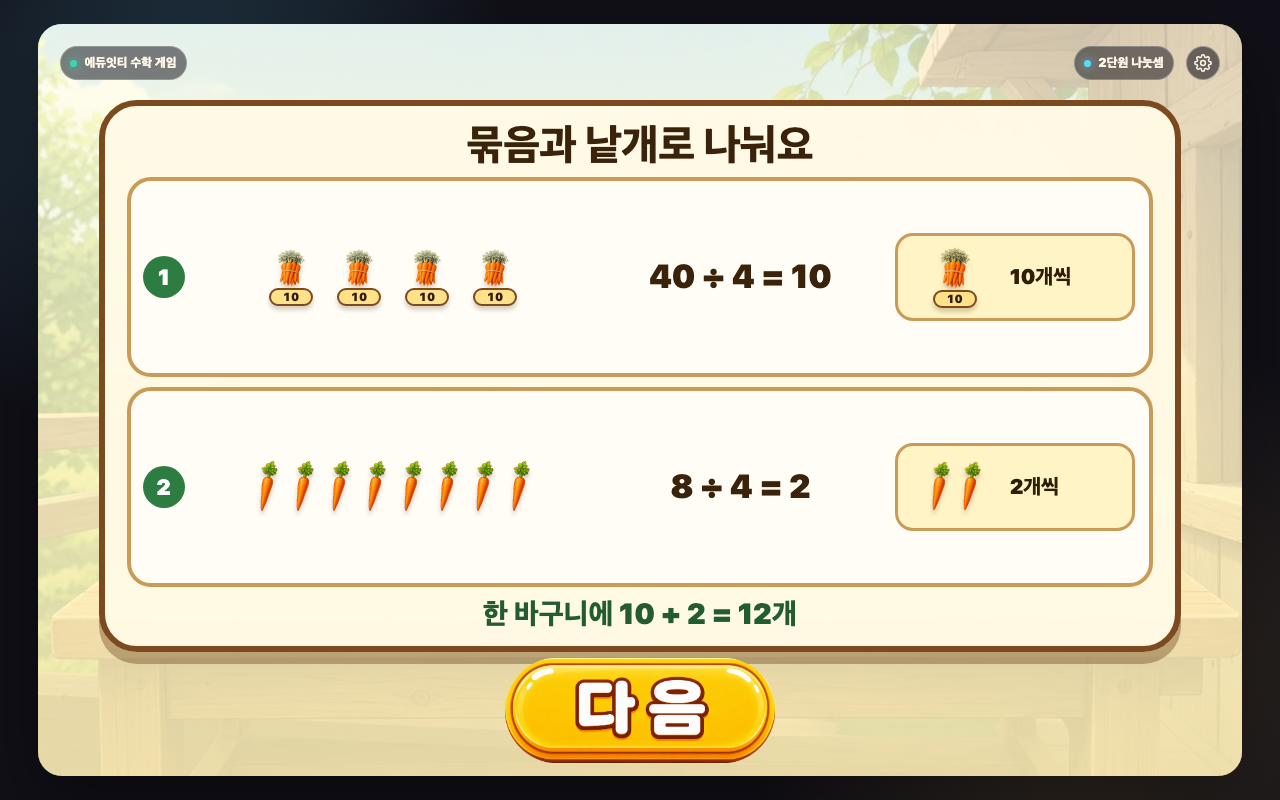
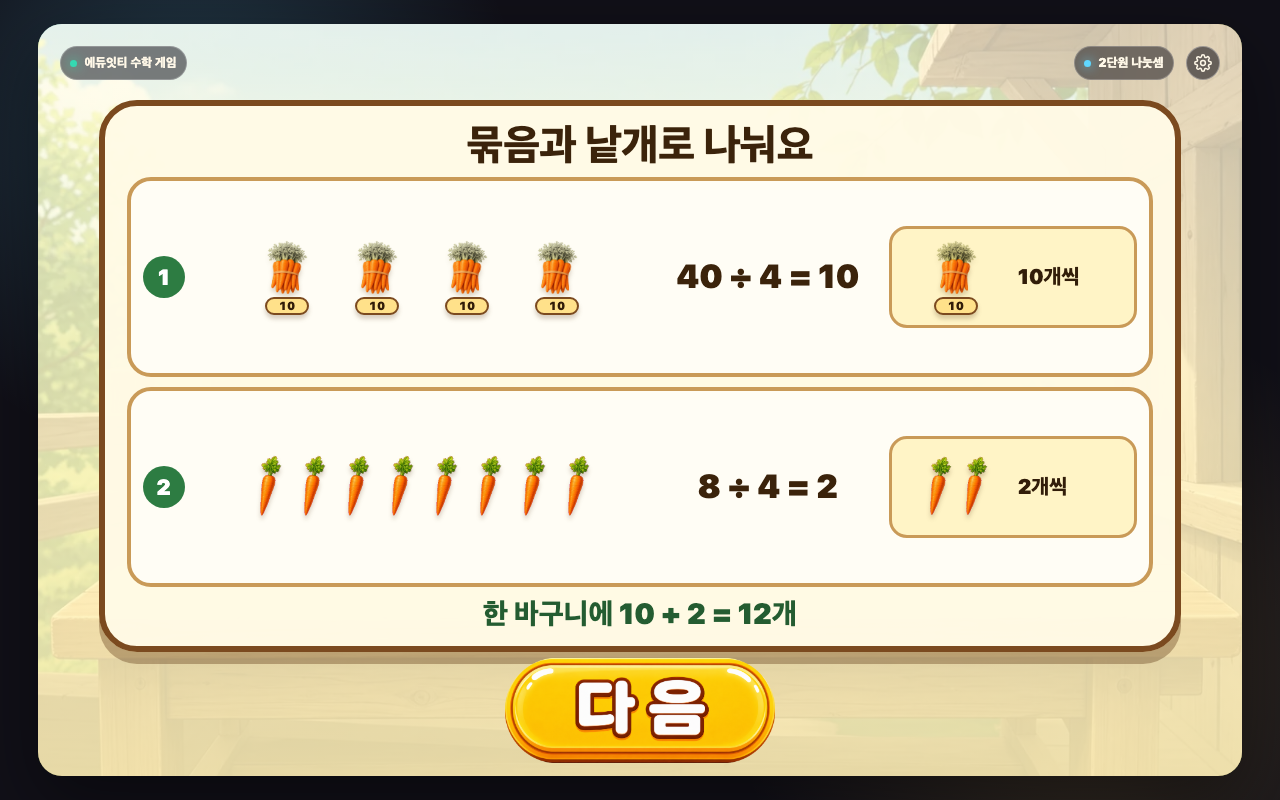
fix(mathmon): enlarge division tutorial carrots

diff --git a/3-2-2-1-mathmon-divide-farm/index.html b/3-2-2-1-mathmon-divide-farm/index.html
@@ -3589,24 +3589,24 @@
     .game[data-workbench-type="place-value-farm"] .farm-tutorial-guide h3 { font-size: 2.65rem; }
     .game[data-workbench-type="place-value-farm"] .farm-tutorial-step {
       padding: 8px 12px;
-      grid-template-columns: 42px minmax(270px, 1.2fr) minmax(220px, .85fr) minmax(190px, .75fr);
+      grid-template-columns: 42px minmax(360px, 1.45fr) minmax(180px, .7fr) minmax(210px, .8fr);
       gap: 12px;
     }
-    .game[data-workbench-type="place-value-farm"] .farm-tutorial-source-pieces { gap: 0; }
-    .game[data-workbench-type="place-value-farm"] .farm-tutorial-source-pieces .farm-produce-piece--bundle { width: 68px; height: 58px; }
-    .game[data-workbench-type="place-value-farm"] .farm-tutorial-source-pieces .farm-produce-piece--single { width: 36px; height: 62px; margin: 0; }
+    .game[data-workbench-type="place-value-farm"] .farm-tutorial-source-pieces { gap: 4px; }
+    .game[data-workbench-type="place-value-farm"] .farm-tutorial-source-pieces .farm-produce-piece--bundle { width: 86px; height: 76px; }
+    .game[data-workbench-type="place-value-farm"] .farm-tutorial-source-pieces .farm-produce-piece--single { width: 40px; height: 74px; margin: 0; }
     .game[data-workbench-type="place-value-farm"] .farm-tutorial-expression strong { font-size: 2.05rem; }
     .game[data-workbench-type="place-value-farm"] .farm-tutorial-expression span { font-size: 1.15rem; white-space: nowrap; }
     .game[data-workbench-type="place-value-farm"] .farm-tutorial-result-proof {
-      width: min(100%, 240px);
-      min-height: 88px;
+      width: min(100%, 260px);
+      min-height: 102px;
       padding: 8px 12px;
-      grid-template-columns: 90px minmax(0, 1fr);
+      grid-template-columns: 104px minmax(0, 1fr);
       gap: 10px;
     }
-    .game[data-workbench-type="place-value-farm"] .farm-tutorial-proof-pieces { height: 64px; }
-    .game[data-workbench-type="place-value-farm"] .farm-tutorial-proof-pieces .farm-produce-piece--bundle { width: 80px; height: 62px; }
-    .game[data-workbench-type="place-value-farm"] .farm-tutorial-proof-pieces .farm-produce-piece--single { width: 29px; height: 60px; }
+    .game[data-workbench-type="place-value-farm"] .farm-tutorial-proof-pieces { height: 78px; }
+    .game[data-workbench-type="place-value-farm"] .farm-tutorial-proof-pieces .farm-produce-piece--bundle { width: 96px; height: 76px; }
+    .game[data-workbench-type="place-value-farm"] .farm-tutorial-proof-pieces .farm-produce-piece--single { width: 34px; height: 72px; }
     .game[data-workbench-type="place-value-farm"] .farm-tutorial-result-proof > strong { font-size: 1.3rem; line-height: 1.1; white-space: nowrap; }
 
     @media (max-width: 1100px) {
@@ -3614,24 +3614,48 @@
       .game[data-workbench-type="place-value-farm"] .farm-tutorial-guide h3 { font-size: 2.15rem; }
       .game[data-workbench-type="place-value-farm"] .farm-tutorial-step {
         padding: 7px 10px;
-        grid-template-columns: 38px minmax(240px, 1.1fr) minmax(190px, .85fr) minmax(190px, .8fr);
+        grid-template-columns: 38px minmax(320px, 1.35fr) minmax(155px, .65fr) minmax(205px, .85fr);
         gap: 8px;
       }
-      .game[data-workbench-type="place-value-farm"] .farm-tutorial-source-pieces .farm-produce-piece--bundle { width: 54px; height: 47px; }
-      .game[data-workbench-type="place-value-farm"] .farm-tutorial-source-pieces .farm-produce-piece--single { width: 29px; height: 50px; }
+      .game[data-workbench-type="place-value-farm"] .farm-tutorial-source-pieces { gap: 3px; }
+      .game[data-workbench-type="place-value-farm"] .farm-tutorial-source-pieces .farm-produce-piece--bundle { width: 78px; height: 70px; }
+      .game[data-workbench-type="place-value-farm"] .farm-tutorial-source-pieces .farm-produce-piece--single { width: 38px; height: 70px; }
       .game[data-workbench-type="place-value-farm"] .farm-tutorial-expression strong { font-size: 1.55rem; }
       .game[data-workbench-type="place-value-farm"] .farm-tutorial-expression span { font-size: .95rem; }
       .game[data-workbench-type="place-value-farm"] .farm-tutorial-result-proof {
-        width: min(100%, 210px);
-        min-height: 74px;
+        width: min(100%, 240px);
+        min-height: 92px;
         padding: 6px 8px;
-        grid-template-columns: 72px minmax(0, 1fr);
+        grid-template-columns: 96px minmax(0, 1fr);
         gap: 6px;
       }
-      .game[data-workbench-type="place-value-farm"] .farm-tutorial-proof-pieces { height: 52px; }
-      .game[data-workbench-type="place-value-farm"] .farm-tutorial-proof-pieces .farm-produce-piece--bundle { width: 62px; height: 49px; }
-      .game[data-workbench-type="place-value-farm"] .farm-tutorial-proof-pieces .farm-produce-piece--single { width: 23px; height: 47px; }
+      .game[data-workbench-type="place-value-farm"] .farm-tutorial-proof-pieces { height: 70px; }
+      .game[data-workbench-type="place-value-farm"] .farm-tutorial-proof-pieces .farm-produce-piece--bundle { width: 86px; height: 68px; }
+      .game[data-workbench-type="place-value-farm"] .farm-tutorial-proof-pieces .farm-produce-piece--single { width: 31px; height: 66px; }
       .game[data-workbench-type="place-value-farm"] .farm-tutorial-result-proof > strong { font-size: 1.05rem; }
+    }
+
+    @media (max-width: 930px) {
+      .game[data-workbench-type="place-value-farm"] .farm-tutorial-step {
+        grid-template-columns: 34px minmax(270px, 1.2fr) minmax(140px, .62fr) minmax(185px, .82fr);
+        gap: 7px;
+      }
+      .game[data-workbench-type="place-value-farm"] .farm-tutorial-source-pieces .farm-produce-piece--bundle {
+        width: 66px;
+        height: 60px;
+      }
+      .game[data-workbench-type="place-value-farm"] .farm-tutorial-source-pieces .farm-produce-piece--single {
+        width: 31px;
+        height: 60px;
+      }
+      .game[data-workbench-type="place-value-farm"] .farm-tutorial-result-proof {
+        width: min(100%, 205px);
+        min-height: 82px;
+        grid-template-columns: 82px minmax(0, 1fr);
+      }
+      .game[data-workbench-type="place-value-farm"] .farm-tutorial-proof-pieces { height: 62px; }
+      .game[data-workbench-type="place-value-farm"] .farm-tutorial-proof-pieces .farm-produce-piece--bundle { width: 76px; height: 60px; }
+      .game[data-workbench-type="place-value-farm"] .farm-tutorial-proof-pieces .farm-produce-piece--single { width: 28px; height: 58px; }
     }
 
     .game[data-workbench-type="place-value-farm"] .farm-share-confirmation.has-action-button {

diff --git a/_lessons/3-2-2-1-mathmon-divide-farm/lesson.css b/_lessons/3-2-2-1-mathmon-divide-farm/lesson.css
@@ -2664,24 +2664,24 @@
 .game[data-workbench-type="place-value-farm"] .farm-tutorial-guide h3 { font-size: 2.65rem; }
 .game[data-workbench-type="place-value-farm"] .farm-tutorial-step {
   padding: 8px 12px;
-  grid-template-columns: 42px minmax(270px, 1.2fr) minmax(220px, .85fr) minmax(190px, .75fr);
+  grid-template-columns: 42px minmax(360px, 1.45fr) minmax(180px, .7fr) minmax(210px, .8fr);
   gap: 12px;
 }
-.game[data-workbench-type="place-value-farm"] .farm-tutorial-source-pieces { gap: 0; }
-.game[data-workbench-type="place-value-farm"] .farm-tutorial-source-pieces .farm-produce-piece--bundle { width: 68px; height: 58px; }
-.game[data-workbench-type="place-value-farm"] .farm-tutorial-source-pieces .farm-produce-piece--single { width: 36px; height: 62px; margin: 0; }
+.game[data-workbench-type="place-value-farm"] .farm-tutorial-source-pieces { gap: 4px; }
+.game[data-workbench-type="place-value-farm"] .farm-tutorial-source-pieces .farm-produce-piece--bundle { width: 86px; height: 76px; }
+.game[data-workbench-type="place-value-farm"] .farm-tutorial-source-pieces .farm-produce-piece--single { width: 40px; height: 74px; margin: 0; }
 .game[data-workbench-type="place-value-farm"] .farm-tutorial-expression strong { font-size: 2.05rem; }
 .game[data-workbench-type="place-value-farm"] .farm-tutorial-expression span { font-size: 1.15rem; white-space: nowrap; }
 .game[data-workbench-type="place-value-farm"] .farm-tutorial-result-proof {
-  width: min(100%, 240px);
-  min-height: 88px;
+  width: min(100%, 260px);
+  min-height: 102px;
   padding: 8px 12px;
-  grid-template-columns: 90px minmax(0, 1fr);
+  grid-template-columns: 104px minmax(0, 1fr);
   gap: 10px;
 }
-.game[data-workbench-type="place-value-farm"] .farm-tutorial-proof-pieces { height: 64px; }
-.game[data-workbench-type="place-value-farm"] .farm-tutorial-proof-pieces .farm-produce-piece--bundle { width: 80px; height: 62px; }
-.game[data-workbench-type="place-value-farm"] .farm-tutorial-proof-pieces .farm-produce-piece--single { width: 29px; height: 60px; }
+.game[data-workbench-type="place-value-farm"] .farm-tutorial-proof-pieces { height: 78px; }
+.game[data-workbench-type="place-value-farm"] .farm-tutorial-proof-pieces .farm-produce-piece--bundle { width: 96px; height: 76px; }
+.game[data-workbench-type="place-value-farm"] .farm-tutorial-proof-pieces .farm-produce-piece--single { width: 34px; height: 72px; }
 .game[data-workbench-type="place-value-farm"] .farm-tutorial-result-proof > strong { font-size: 1.3rem; line-height: 1.1; white-space: nowrap; }
 
 @media (max-width: 1100px) {
@@ -2689,24 +2689,48 @@
   .game[data-workbench-type="place-value-farm"] .farm-tutorial-guide h3 { font-size: 2.15rem; }
   .game[data-workbench-type="place-value-farm"] .farm-tutorial-step {
     padding: 7px 10px;
-    grid-template-columns: 38px minmax(240px, 1.1fr) minmax(190px, .85fr) minmax(190px, .8fr);
+    grid-template-columns: 38px minmax(320px, 1.35fr) minmax(155px, .65fr) minmax(205px, .85fr);
     gap: 8px;
   }
-  .game[data-workbench-type="place-value-farm"] .farm-tutorial-source-pieces .farm-produce-piece--bundle { width: 54px; height: 47px; }
-  .game[data-workbench-type="place-value-farm"] .farm-tutorial-source-pieces .farm-produce-piece--single { width: 29px; height: 50px; }
+  .game[data-workbench-type="place-value-farm"] .farm-tutorial-source-pieces { gap: 3px; }
+  .game[data-workbench-type="place-value-farm"] .farm-tutorial-source-pieces .farm-produce-piece--bundle { width: 78px; height: 70px; }
+  .game[data-workbench-type="place-value-farm"] .farm-tutorial-source-pieces .farm-produce-piece--single { width: 38px; height: 70px; }
   .game[data-workbench-type="place-value-farm"] .farm-tutorial-expression strong { font-size: 1.55rem; }
   .game[data-workbench-type="place-value-farm"] .farm-tutorial-expression span { font-size: .95rem; }
   .game[data-workbench-type="place-value-farm"] .farm-tutorial-result-proof {
-    width: min(100%, 210px);
-    min-height: 74px;
+    width: min(100%, 240px);
+    min-height: 92px;
     padding: 6px 8px;
-    grid-template-columns: 72px minmax(0, 1fr);
+    grid-template-columns: 96px minmax(0, 1fr);
     gap: 6px;
   }
-  .game[data-workbench-type="place-value-farm"] .farm-tutorial-proof-pieces { height: 52px; }
-  .game[data-workbench-type="place-value-farm"] .farm-tutorial-proof-pieces .farm-produce-piece--bundle { width: 62px; height: 49px; }
-  .game[data-workbench-type="place-value-farm"] .farm-tutorial-proof-pieces .farm-produce-piece--single { width: 23px; height: 47px; }
+  .game[data-workbench-type="place-value-farm"] .farm-tutorial-proof-pieces { height: 70px; }
+  .game[data-workbench-type="place-value-farm"] .farm-tutorial-proof-pieces .farm-produce-piece--bundle { width: 86px; height: 68px; }
+  .game[data-workbench-type="place-value-farm"] .farm-tutorial-proof-pieces .farm-produce-piece--single { width: 31px; height: 66px; }
   .game[data-workbench-type="place-value-farm"] .farm-tutorial-result-proof > strong { font-size: 1.05rem; }
+}
+
+@media (max-width: 930px) {
+  .game[data-workbench-type="place-value-farm"] .farm-tutorial-step {
+    grid-template-columns: 34px minmax(270px, 1.2fr) minmax(140px, .62fr) minmax(185px, .82fr);
+    gap: 7px;
+  }
+  .game[data-workbench-type="place-value-farm"] .farm-tutorial-source-pieces .farm-produce-piece--bundle {
+    width: 66px;
+    height: 60px;
+  }
+  .game[data-workbench-type="place-value-farm"] .farm-tutorial-source-pieces .farm-produce-piece--single {
+    width: 31px;
+    height: 60px;
+  }
+  .game[data-workbench-type="place-value-farm"] .farm-tutorial-result-proof {
+    width: min(100%, 205px);
+    min-height: 82px;
+    grid-template-columns: 82px minmax(0, 1fr);
+  }
+  .game[data-workbench-type="place-value-farm"] .farm-tutorial-proof-pieces { height: 62px; }
+  .game[data-workbench-type="place-value-farm"] .farm-tutorial-proof-pieces .farm-produce-piece--bundle { width: 76px; height: 60px; }
+  .game[data-workbench-type="place-value-farm"] .farm-tutorial-proof-pieces .farm-produce-piece--single { width: 28px; height: 58px; }
 }
 
 .game[data-workbench-type="place-value-farm"] .farm-share-confirmation.has-action-button {
